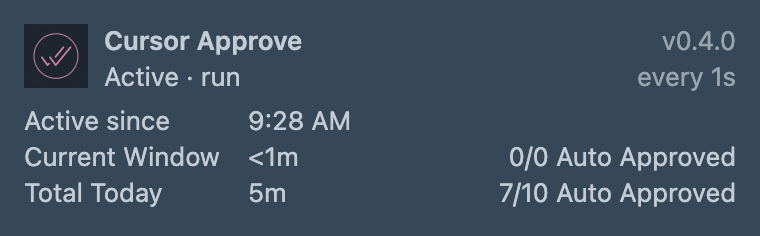
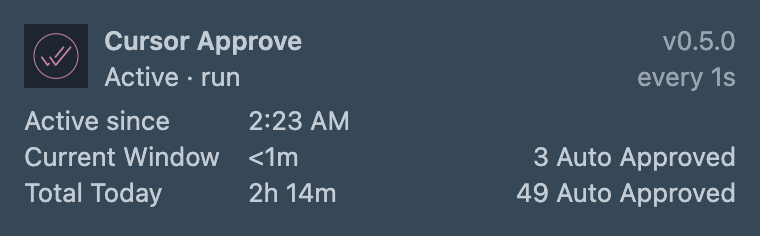
docs: regenerate the README images with make screenshots
The approval GIF is now a tour: the pointer switches approval on, the
dashboard counts three approvals, and the pointer switches it off and returns
to where it started, so the loop has no seam. The dashboard stills are taken
mid-tour, so all three images show the same counts and the current version.
The README sizes them for their new 2x captures.

diff --git a/README.md b/README.md
@@ -33,7 +33,7 @@ through a status bar item that gets added to the far right.
 
 <!-- markdownlint-disable MD033 -->
 
-<img src="docs/auto-approve.gif" width="650" alt="Toggling automatic approval off and on from the status bar" />
+<img src="docs/auto-approve.gif" width="560" alt="Switching automatic approval on from the status bar, the dashboard counting approvals, and switching it off" />
 
 <!-- markdownlint-enable MD033 -->
 
@@ -146,7 +146,7 @@ Hover over the **Auto Approve** status item to pop up a small stats dashboard.
 
 | Dashboard                                                                                                                             | Measures                                                                                                                                                                                                                                                                                                                                                                                                   |
 | ------------------------------------------------------------------------------------------------------------------------------------- | ---------------------------------------------------------------------------------------------------------------------------------------------------------------------------------------------------------------------------------------------------------------------------------------------------------------------------------------------------------------------------------------------------------- |
-| <img src="docs/dashboard.png" width="780" alt="The status bar hover dashboard with active time, approval counts, and footer links" /> | **Active since** — When the current stretch of automatic approval began<br><br>**Current Window** — Time and approvals in this window during that stretch<br><br>**Total Today** — Time and approvals since local midnight across open Cursor windows<br><br>**Note** - Durations count time Cursor Approve was running and active, not wall-clock time. Time while the machine is asleep is not included. |
+| <img src="docs/dashboard.png" width="420" alt="The status bar hover dashboard with active time, approval counts, and footer links" /> | **Active since** — When the current stretch of automatic approval began<br><br>**Current Window** — Time and approvals in this window during that stretch<br><br>**Total Today** — Time and approvals since local midnight across open Cursor windows<br><br>**Note** - Durations count time Cursor Approve was running and active, not wall-clock time. Time while the machine is asleep is not included. |
 
 <!-- markdownlint-enable MD033 -->
 
